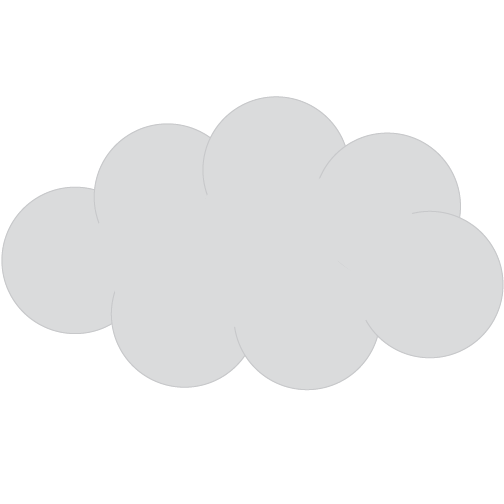
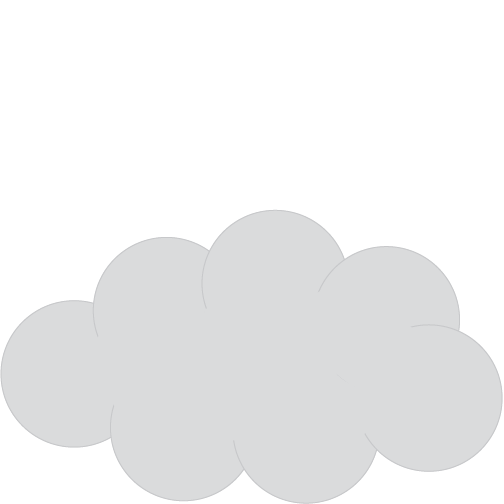
E5: S key makes new sun and C key makes new cloud

diff --git a/exercises/juggle-garden/js/script.js b/exercises/juggle-garden/js/script.js
@@ -12,9 +12,9 @@ another form of user-control, a new class and objects and at least 2 endings.
 let gravityForce = 0.0025;
 
 let suns = [];
-let numSuns = 5;
+let numSuns = 1;
 let clouds = [];
-let numClouds = 5;
+let numClouds = 1;
 
 let sunImage = undefined;
 let cloudImage = undefined;
@@ -130,9 +130,25 @@ function createSuns() {
   }
 }
 
-function mousePressed() {
+function keyPressed() {
+  if (keyCode === 83) {
+    let x = mouseX;
+    let y = mouseY;
+    let sun = new Sun(x, y, sunImage);
+    suns.push(sun);
+  }
+
+  if (keyCode === 67) {
+    let x = mouseX;
+    let y = mouseY;
+    let cloud = new Cloud(x, y, cloudImage);
+    clouds.push(cloud);
+  }
+}
+
+/* function mousePressed() {
   let x = mouseX;
   let y = mouseY;
   let cloud = new Cloud(x, y, cloudImage);
   clouds.push(cloud);
-}
+} */

diff --git a/exercises/juggle-garden/js/Cloud.js b/exercises/juggle-garden/js/Cloud.js
@@ -8,7 +8,7 @@ class Cloud {
     this.ax = 0;
     this.ay = 0;
     this.maxSpeed = 10;
-    this.size = 80;
+    this.size = 300;
     this.active = true;
     this.image = image;
   }
@@ -54,7 +54,7 @@ class Cloud {
 
 display() {
   push();
-  // imageMode(CENTER);
+  imageMode(CENTER);
   image(this.image,this.x,this.y, this.size, this.size);
   pop();
   }

diff --git a/exercises/juggle-garden/js/Sun.js b/exercises/juggle-garden/js/Sun.js
@@ -8,7 +8,7 @@ class Sun {
     this.ax = 0;
     this.ay = 0;
     this.maxSpeed = 10;
-    this.size = 80;
+    this.size = 300;
     this.active = true;
     this.image = image;
   }
@@ -54,7 +54,7 @@ class Sun {
 
 display() {
   push();
-  // imageMode(CENTER);
+  imageMode(CENTER);
   image(this.image,this.x,this.y, this.size, this.size);
   pop();
   }

diff --git a/exercises/love-actually/js/script.js b/exercises/love-actually/js/script.js
@@ -128,15 +128,7 @@ function handleInput() {
     user.vy = 0;
   }
 
-if (keyIsDown(LEFT_ARROW)) {
-  user.vx = -user.speed;
-  }
-  else if (keyIsDown(RIGHT_ARROW)) {
-    user.vx = user.speed;
-  }
-  else {
-  user.vx = 0;
-  }
+
 }
 
 // Title state
